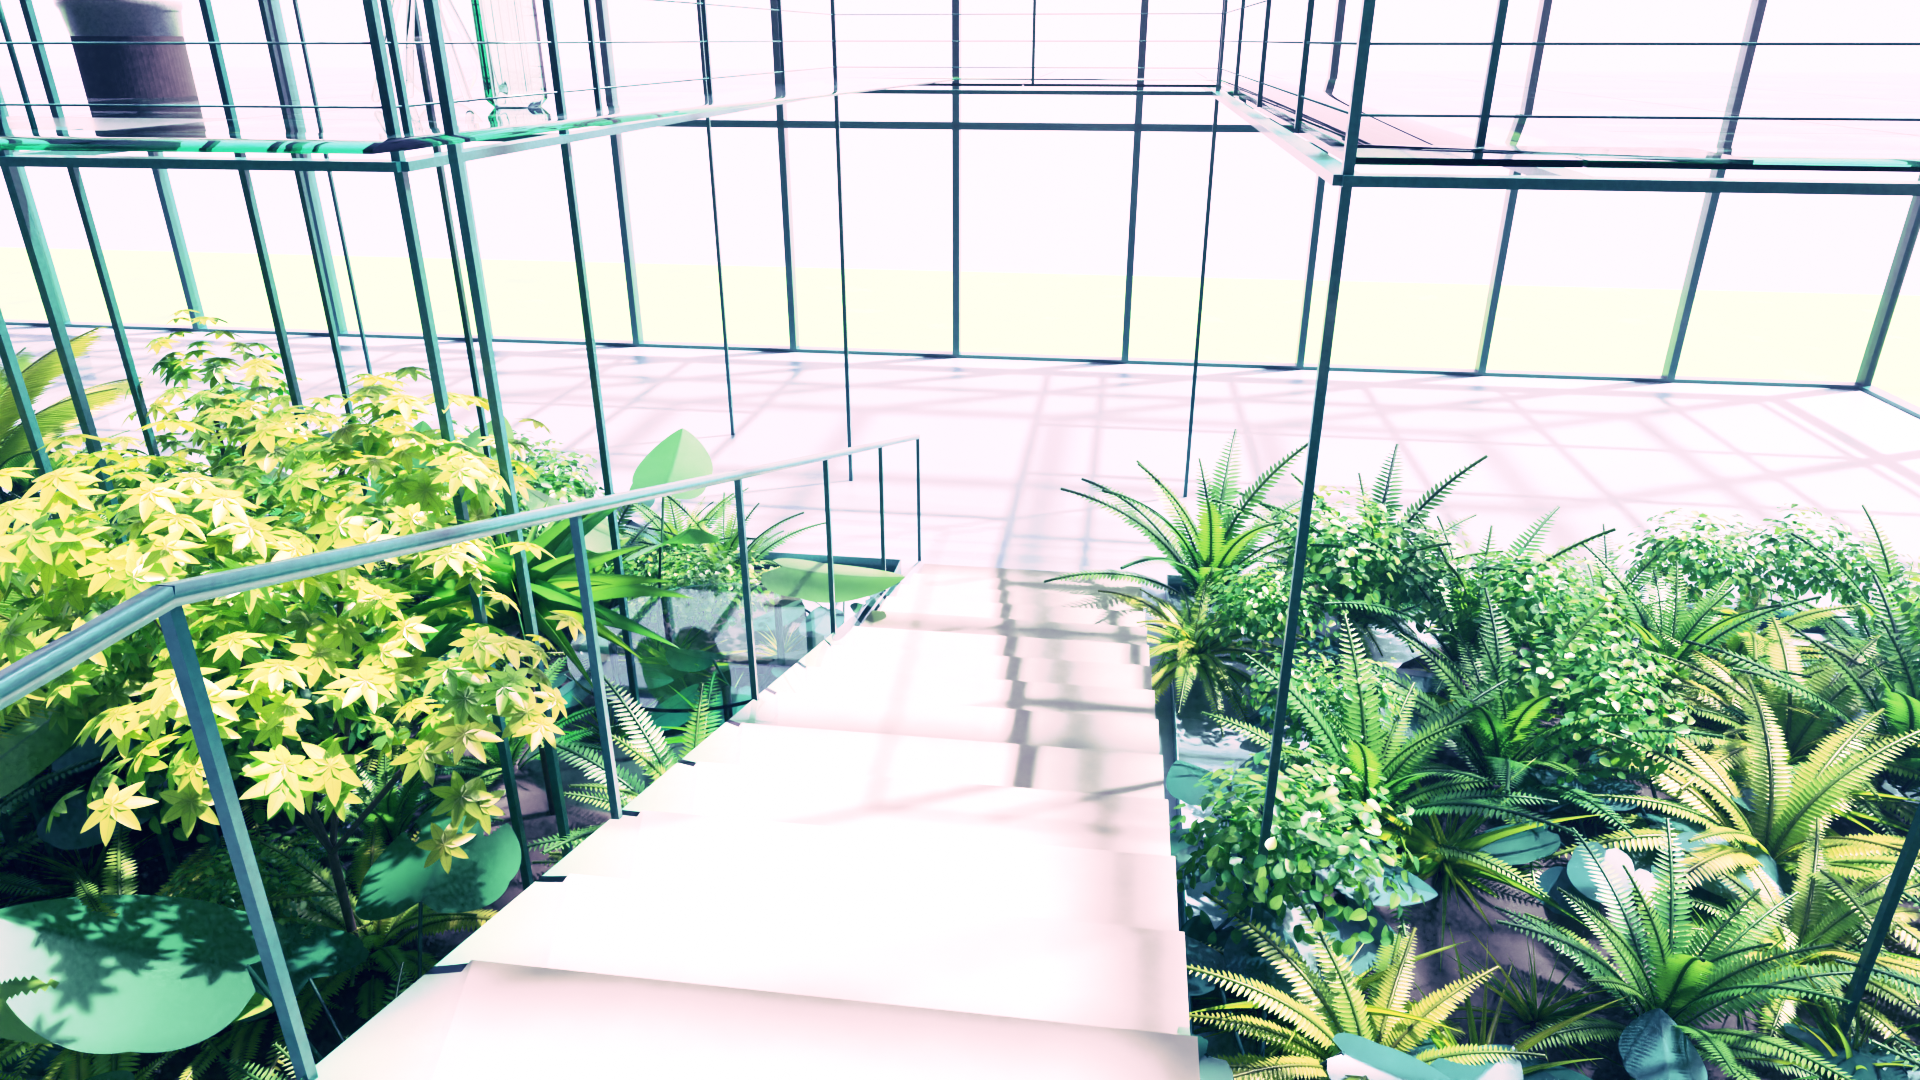
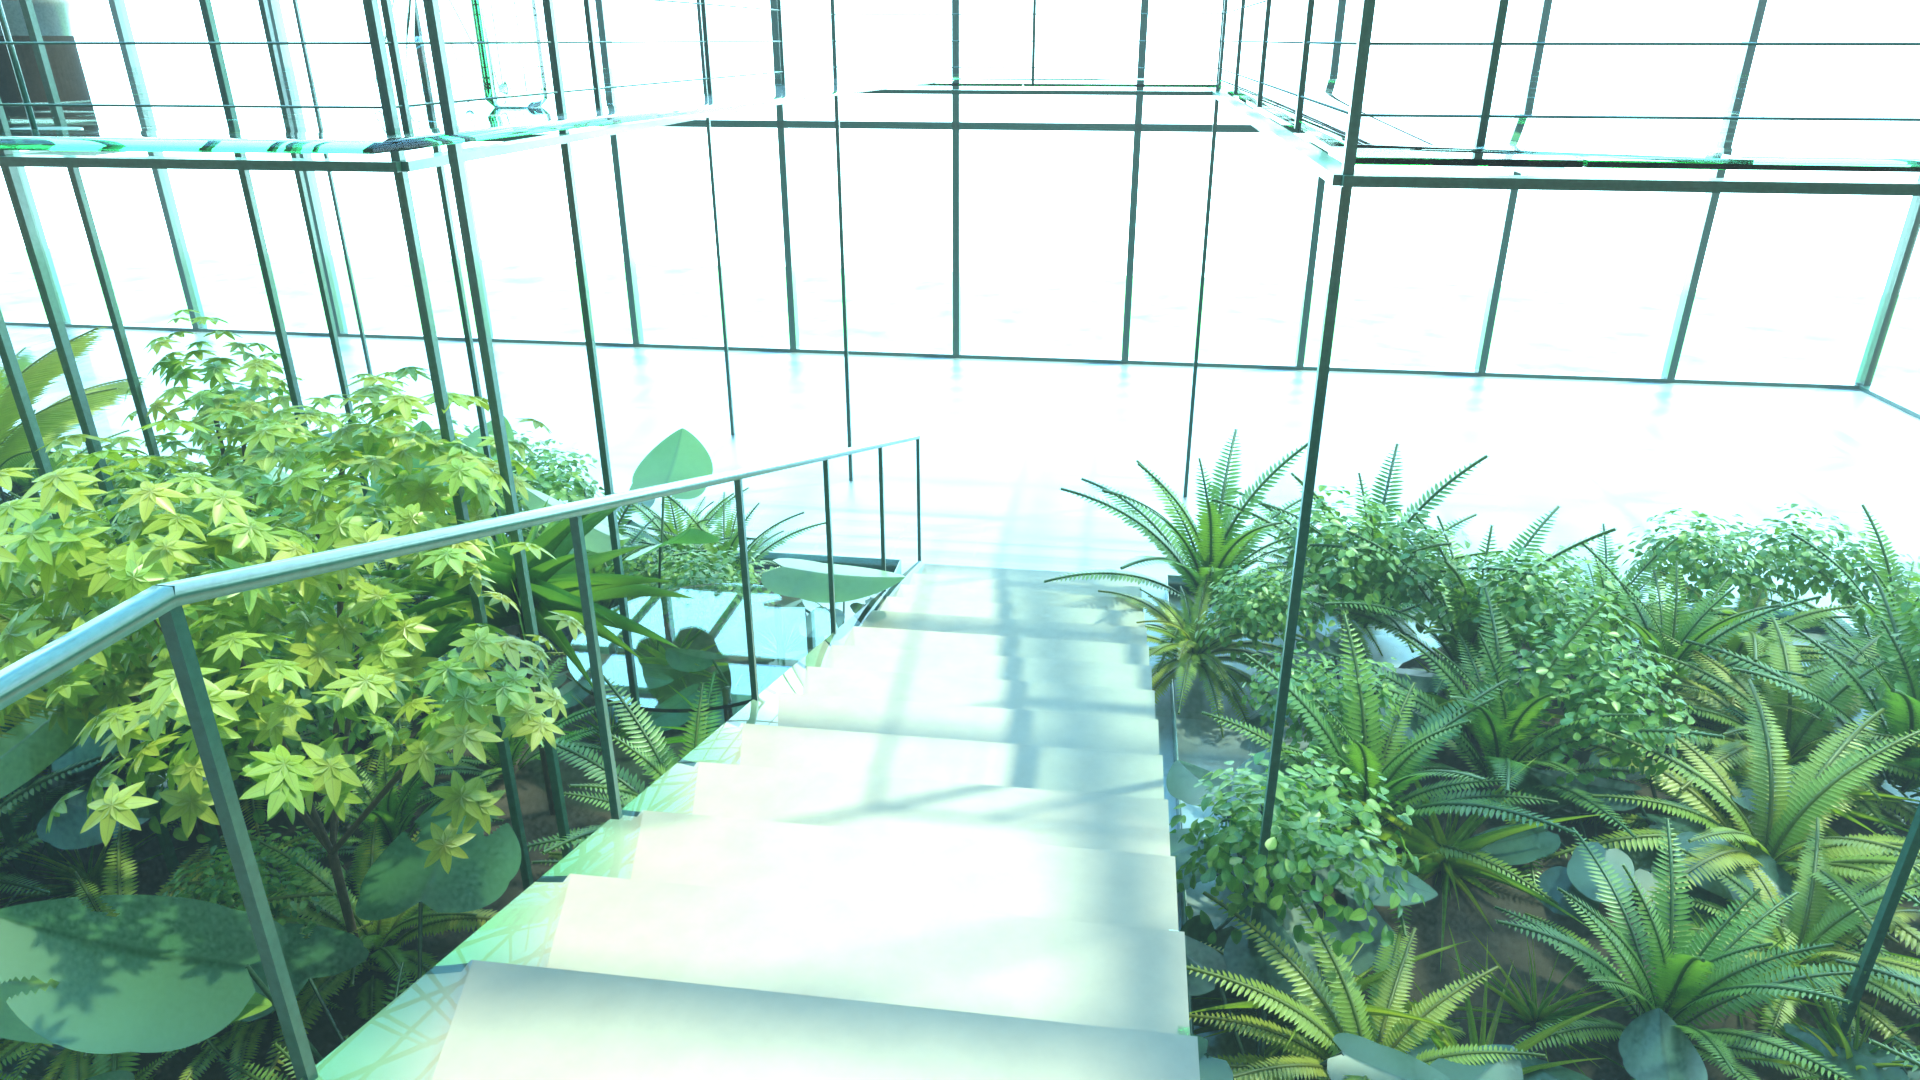
玻璃中庭：烧瓶改绿玻璃，重渲并记录定量对比

diff --git a/Other/Greenhouse/Scenes/GlassAtrium/README.md b/Other/Greenhouse/Scenes/GlassAtrium/README.md
@@ -63,16 +63,35 @@ blender -b -P Other/build.py -- Greenhouse/Scenes/GlassAtrium --view overview --
 | 画廊外沿的一排地面比其他玻璃白 | 外沿一排是磨砂玻璃 |
 | 立柱在外沿成对出现、间距不均（0.19 / 0.23 / 0.56 m） | 按原画位置保留：结构柱加栏杆立柱，两套构件并排 |
 
-## 4. 外观
+## 4. 外观与标定
 
-Cycles，Standard 视图变换。材质都是程序化的：建筑玻璃是带绿色吸收的真实电介质（侧看是深青色、正看几乎透明），
-阴影光线用带色透明，这样阳光能穿过玻璃地面照进花园；玻璃器皿有体积吸收；叶片按每片叶子自己的 `leaf_color`
-着色，带中脉暗化、蜡质高光和透光；光雾是前向散射的体积。
+Cycles，Standard 视图变换，不调色（`look` 为空）。材质都是程序化的：建筑玻璃是带绿色吸收的真实电介质（侧看深青、正看几乎透明），
+阴影光线用带色透明，阳光能穿过玻璃地面照进花园；玻璃器皿有体积吸收；叶片按每片叶子自己的 `leaf_color` 着色，
+带中脉暗化、蜡质高光和透光；室内是一层前向散射的薄光雾。
 
-`calibration/fit_grade.py`：用未调色的渲染与去人物参考画做直方图匹配，拟合出按显示值的逐通道色调曲线，
-写入 `shots/Nitia.json` 的 `look.grade`。直方图匹配不会像逐像素回归那样把对比度压平。
+**窗外的粉色**：原画机位是俯视，地平线在画面上方之外，所以窗外那片粉白不是天空，而是街面方向被城市烟霭吞没的远景。
+`GH.HazeFar` 用空气透视的闭式解：吸收介质 + 按密度发光，沿视线透射率为 T 时画面 = 原景 × T + 烟霭色 × (1 − T)，
+不需要大量体积反弹就能得到明亮的烟霭。
+
+**灯光反解**（`calibration/fit_lights.py`）：光照对光源强度是线性的，太阳、天空、城市烟霭各放进一个 Cycles light group，
+一次渲染得到每组的线性图像，再在显示空间（sRGB 编码、白点截断之后）对去人物参考画做鲁棒误差最小化，
+**逐通道**解出每组的 RGB 权重——同时解出每个光源的亮度和颜色；`--apply` 写回 `scene.json`
+（太阳功率与颜色、天空强度与色板覆盖 `color:sky_*`、烟霭亮度与 `color:smog`）。
 
 ```bash
-blender -b -P Other/build.py -- Greenhouse/Scenes/GlassAtrium --no-save --no-look --render ungraded.png
-blender -b -P Other/Greenhouse/Scenes/GlassAtrium/calibration/fit_grade.py -- ungraded.png --write
+blender -b -P Other/Greenhouse/Scenes/GlassAtrium/calibration/fit_lights.py -- groups.npz --samples 64 --scale 0.25
+python Other/Greenhouse/Scenes/GlassAtrium/calibration/fit_lights.py groups.npz --apply
 ```
+
+`calibration/fit_grade.py` 可在未调色渲染上拟合直方图匹配的色调曲线；在灯光反解之后它不再降低误差，所以当前镜头不调色。
+
+## 5. 与参考画的定量对比（`Renders/Nitia.png`，2166 × 3000，对去人物参考画）
+
+| 指标 | 值 |
+|------|----|
+| 结构线对齐（不含植物与陈设的钢玻结构轮廓，逐像素到原画边缘的距离） | 中位数 3.0 px；2 px 内 41.9%，4 px 内 60.1%，8 px 内 79.9% |
+| 逐像素平均绝对误差（sRGB 0–1） | 0.201 |
+| 色调误差（1/60 画宽高斯模糊后，只看颜色与明暗分布） | 0.114 |
+| 标定历程（色调误差） | 初版 0.178 → 远景烟霭 0.122 → 灯光逐通道反解 0.114 |
+
+剩余差异主要是逐片叶子的构成（原画的植物是手绘的，位置与轮廓无法从单张画面唯一确定）、手绘的高光笔触和光柱强度。
